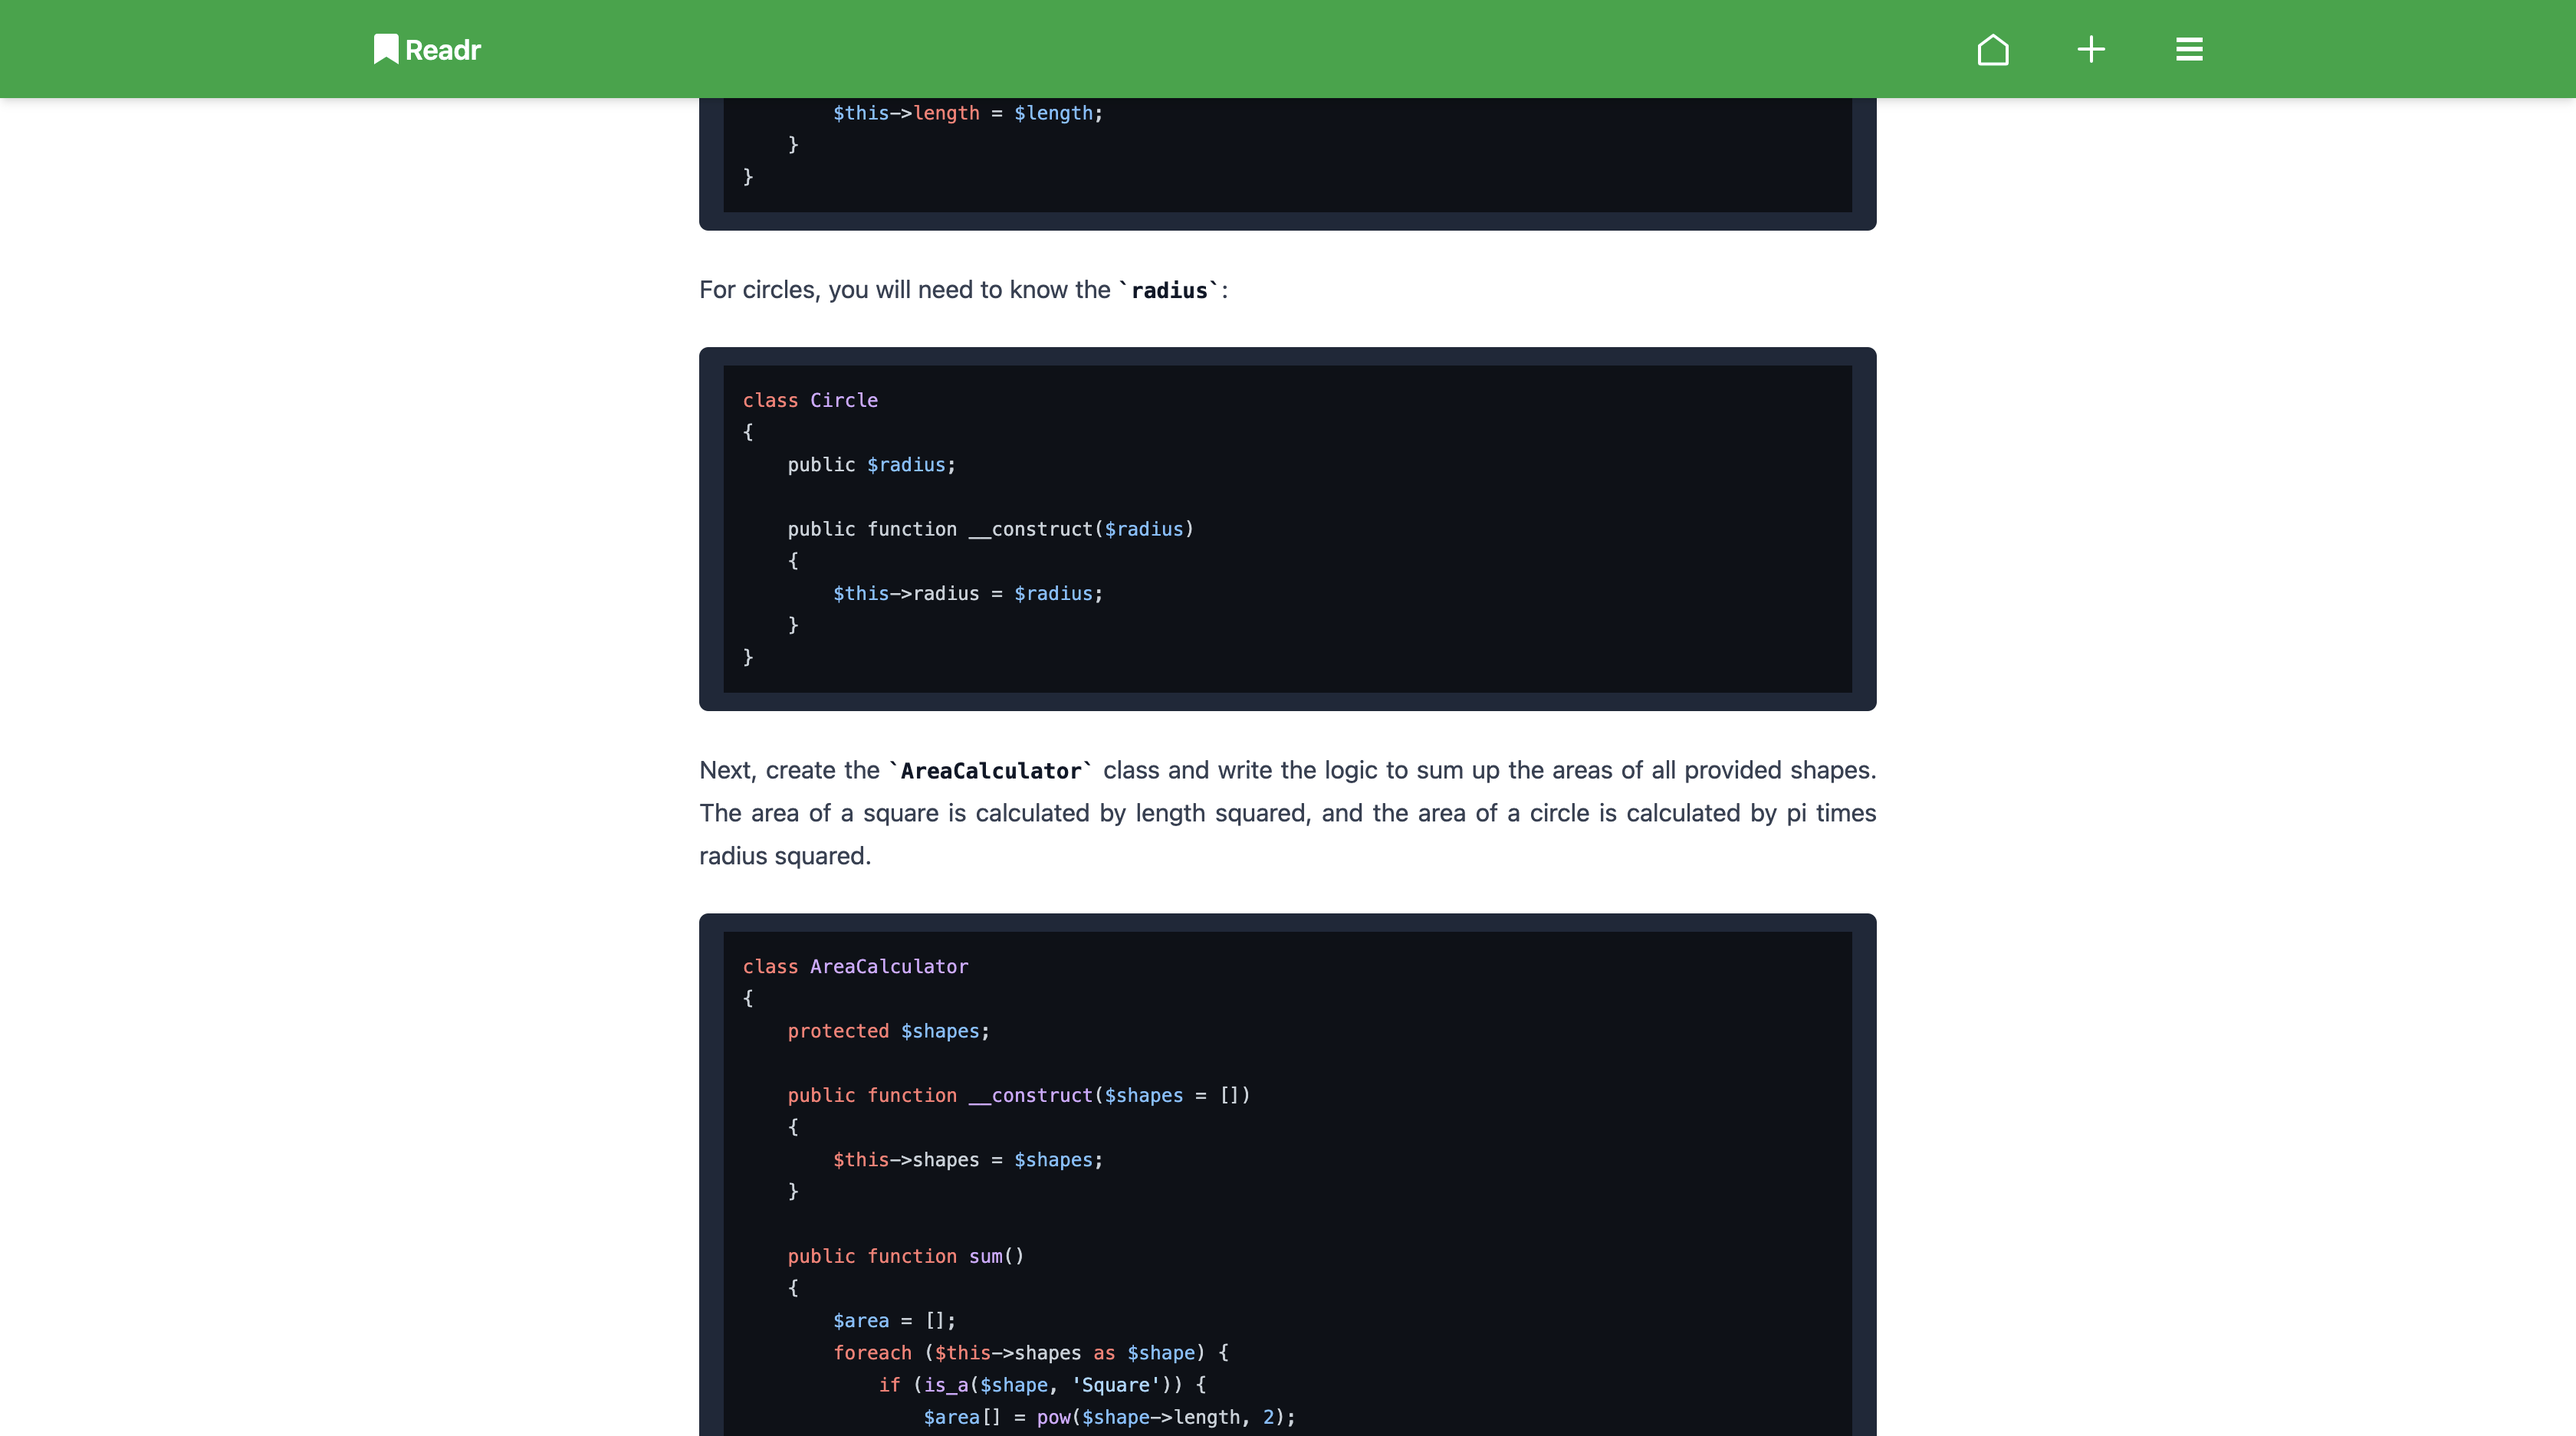
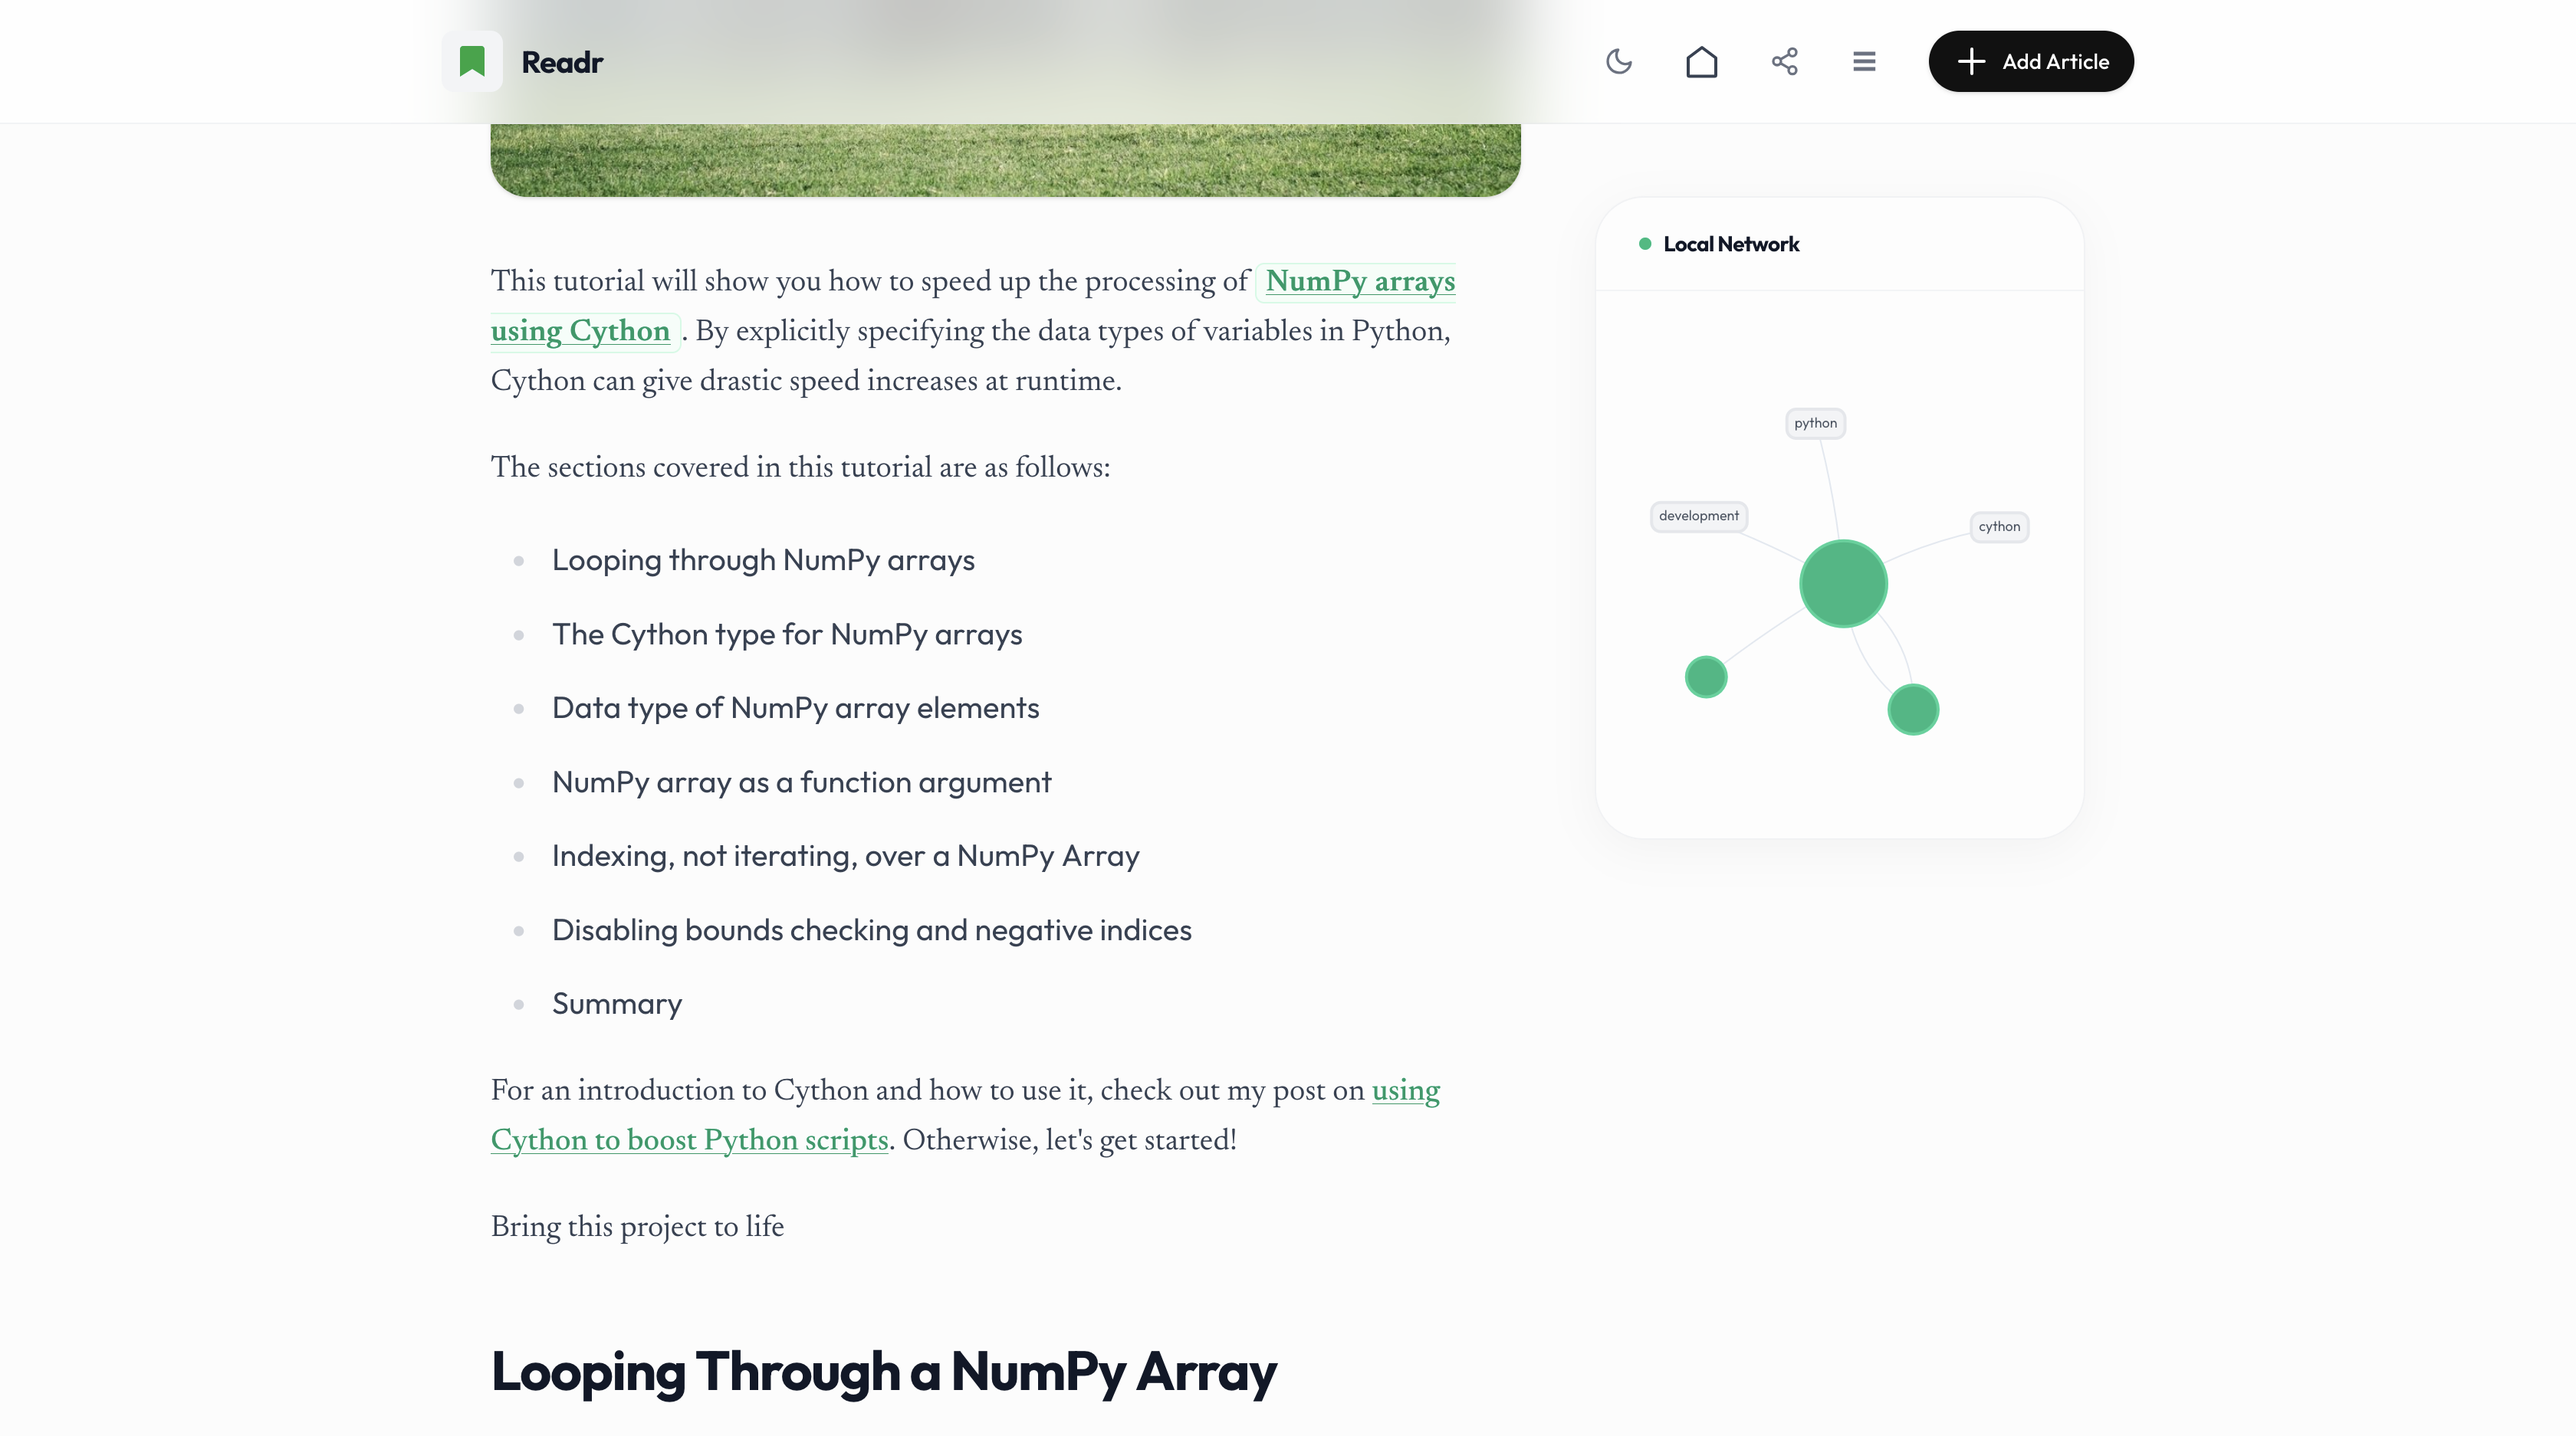
docs: update screenshots and README showcase with chat and graph views

diff --git a/README.md b/README.md
@@ -23,10 +23,16 @@ A minimal, self hosted read it later app written powered by Vue/Tailwind and Go.
 <table>
   <tr>
     <td>
-      <img src="https://github.com/gregyjames/readr/blob/main/samples/home.png?raw=true" width="750px"/>
+      <img src="https://github.com/gregyjames/readr/blob/main/samples/home.png?raw=true" width="350px"/>
     </td>
     <td>
-      <img src="https://github.com/gregyjames/readr/blob/main/samples/article.png?raw=true" width="750px"/>
+      <img src="https://github.com/gregyjames/readr/blob/main/samples/article.png?raw=true" width="350px"/>
+    </td>
+    <td>
+      <img src="https://github.com/gregyjames/readr/blob/main/samples/chat.png?raw=true" width="350px"/>
+    </td>
+    <td>
+      <img src="https://github.com/gregyjames/readr/blob/main/samples/graph.png?raw=true" width="350px"/>
     </td>
   </tr>
 </table>
